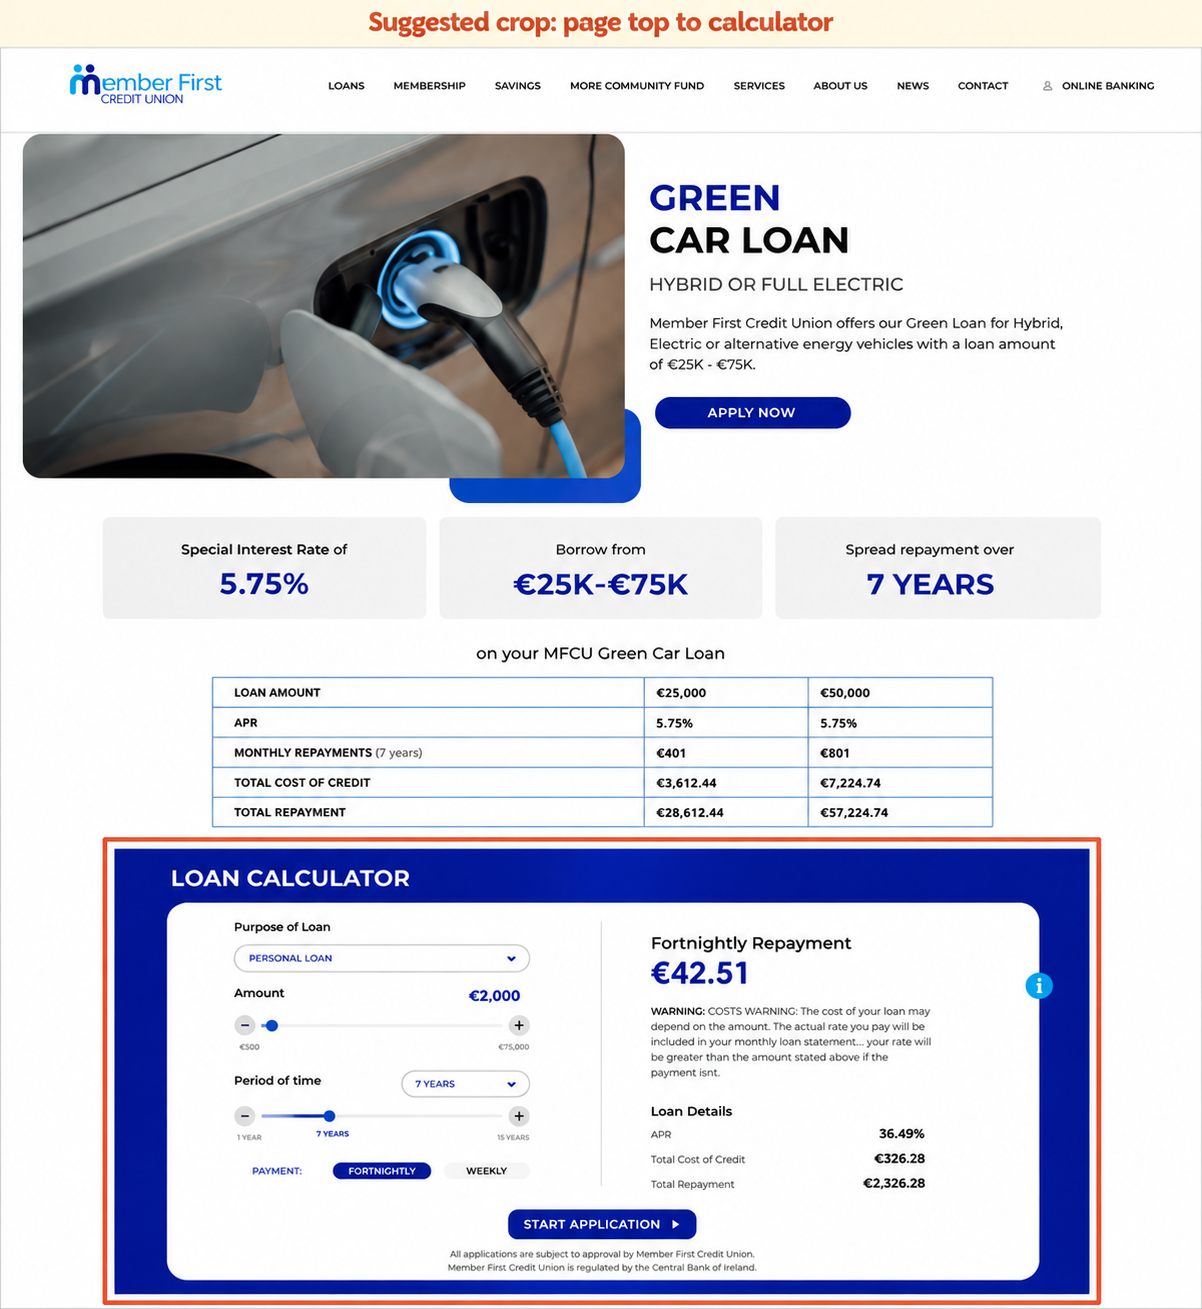
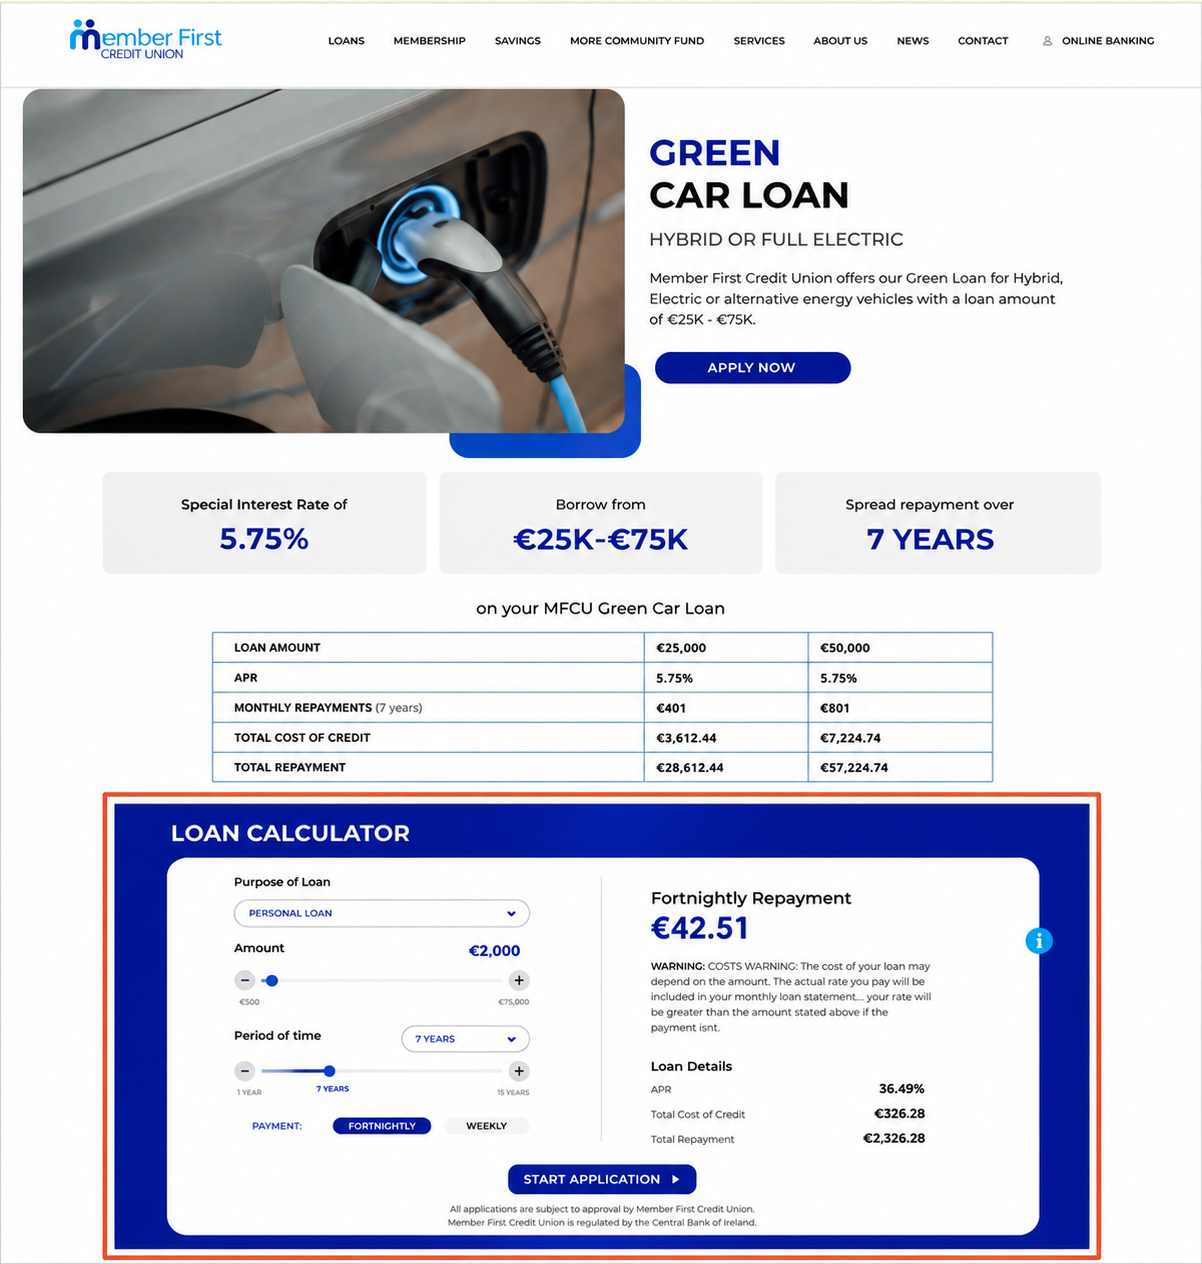
Replace calculator position evidence image

diff --git a/app/case-studies/member-first-credit-union-green-car-loan/page.tsx b/app/case-studies/member-first-credit-union-green-car-loan/page.tsx
@@ -615,7 +615,7 @@ export default function MemberFirstGreenCarLoanCaseStudy() {
                     src="/case-studies/member-first-credit-union-green-car-loan/calculator-position.png"
                     alt="Annotated MFCU Green Car Loan page showing the hero, rate highlights and repayment table above the loan calculator."
                     width={1202}
-                    height={1309}
+                    height={1264}
                     sizes="(min-width: 1024px) 37vw, 100vw"
                     className="block h-auto w-full border border-border"
                   />
